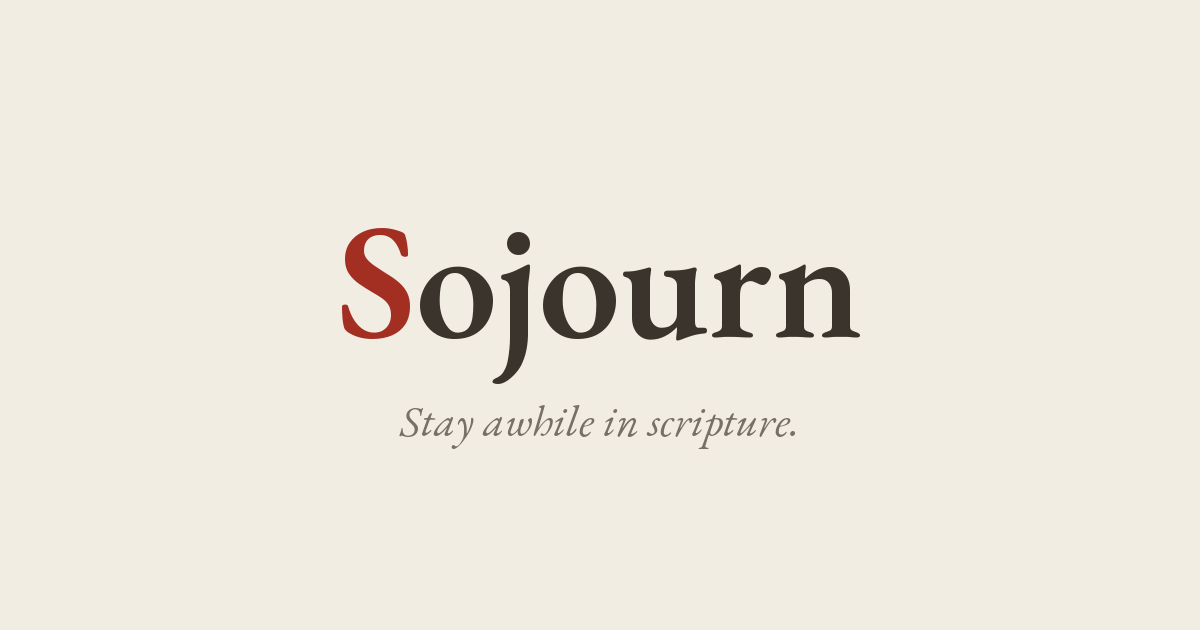
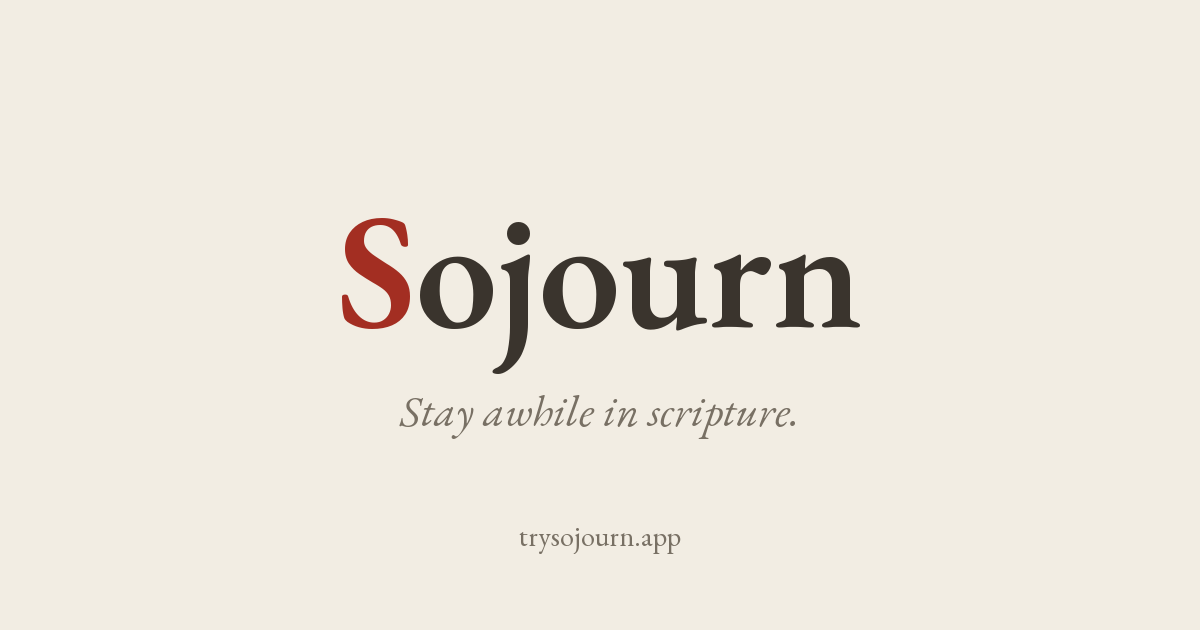
Tighten meta descriptions and fill the gaps on /privacy/
An SEO audit flagged the home description as over-long. Checking every
page turned up two more gaps.

- Home description 161 -> 153 chars, in both the meta tag and JSON-LD.
- The Wikipedia post 158 -> 141 chars, replaced in all four places it
  appeared. The new copy drops the opener that restated the post's own
  title, which also clears the redundancy on its share card.
- /privacy/ had only a <title>: no description and no canonical, the
  only page on the site missing either. Both added.
- The home card carries trysojourn.app where other cards carry the
  wordmark footer, as a plain line of text rather than a badge.

llms.txt and sitemap.xml regenerated. All 17 pages now carry a
description within length, a canonical, and valid JSON-LD. Topic cards
verified byte-identical.

Claude-Session: https://claude.ai/code/session_01XpPifASp2CocFrR25Q77Mw

diff --git a/writings/explore-the-bible-like-wikipedia/index.html b/writings/explore-the-bible-like-wikipedia/index.html
@@ -14,13 +14,13 @@
 <meta name="format-detection" content="telephone=no, date=no, address=no, email=no">
 <meta name="theme-color" content="#A32E22">
 <title>Sojourn &middot; Explore the Bible like Wikipedia</title>
-<meta name="description" content="Why Sojourn lets you explore the Bible like Wikipedia: every verse is a door into the chapter around it, so you can follow a thread without losing your place.">
+<meta name="description" content="Scripture is full of cross references. Sojourn lets you follow them like Wikipedia links, with every verse a door into the chapter around it.">
 <link rel="canonical" href="https://trysojourn.app/writings/explore-the-bible-like-wikipedia/">
 <meta name="author" content="Jaisen Mathai">
 <meta property="og:site_name" content="Sojourn">
 <meta property="og:type" content="article">
 <meta property="og:title" content="Explore the Bible like Wikipedia">
-<meta property="og:description" content="Why Sojourn lets you explore the Bible like Wikipedia: every verse is a door into the chapter around it, so you can follow a thread without losing your place.">
+<meta property="og:description" content="Scripture is full of cross references. Sojourn lets you follow them like Wikipedia links, with every verse a door into the chapter around it.">
 <meta property="og:url" content="https://trysojourn.app/writings/explore-the-bible-like-wikipedia/">
 <meta property="og:image" content="https://trysojourn.app/writings/explore-the-bible-like-wikipedia/og.png">
 <meta property="og:image:width" content="1200">
@@ -31,14 +31,14 @@
 <meta property="article:author" content="Jaisen Mathai">
 <meta name="twitter:card" content="summary_large_image">
 <meta name="twitter:title" content="Explore the Bible like Wikipedia">
-<meta name="twitter:description" content="Why Sojourn lets you explore the Bible like Wikipedia: every verse is a door into the chapter around it, so you can follow a thread without losing your place.">
+<meta name="twitter:description" content="Scripture is full of cross references. Sojourn lets you follow them like Wikipedia links, with every verse a door into the chapter around it.">
 <meta name="twitter:image" content="https://trysojourn.app/writings/explore-the-bible-like-wikipedia/og.png">
 <script type="application/ld+json">
 {
   "@context": "https://schema.org",
   "@type": "BlogPosting",
   "headline": "Explore the Bible like Wikipedia",
-  "description": "Why Sojourn lets you explore the Bible like Wikipedia: every verse is a door into the chapter around it, so you can follow a thread without losing your place.",
+  "description": "Scripture is full of cross references. Sojourn lets you follow them like Wikipedia links, with every verse a door into the chapter around it.",
   "url": "https://trysojourn.app/writings/explore-the-bible-like-wikipedia/",
   "mainEntityOfPage": "https://trysojourn.app/writings/explore-the-bible-like-wikipedia/",
   "datePublished": "2026-08-04",

diff --git a/index.html b/index.html
@@ -6,7 +6,7 @@
 <meta name="format-detection" content="telephone=no, date=no, address=no, email=no">
 <meta name="theme-color" content="#A32E22">
 <title>Sojourn &middot; Stay awhile in scripture</title>
-<meta name="description" content="A quiet place to read and reflect on scripture. See what the Bible says about anxiety, grief, fear, and more, with every verse a door into the chapter around it.">
+<meta name="description" content="A quiet place to read and reflect on scripture. See what the Bible says about anxiety, grief, and fear. Every verse is a door into the chapter around it.">
 <link rel="canonical" href="https://trysojourn.app/">
 <meta property="og:site_name" content="Sojourn">
 <meta property="og:title" content="Sojourn · Stay awhile in scripture">
@@ -38,7 +38,7 @@
       "name": "Sojourn",
       "url": "https://trysojourn.app/",
       "publisher": { "@id": "https://trysojourn.app/#org" },
-      "description": "A quiet place to read and reflect on scripture. See what the Bible says about anxiety, grief, fear, and more, with every verse a door into the chapter around it."
+      "description": "A quiet place to read and reflect on scripture. See what the Bible says about anxiety, grief, and fear. Every verse is a door into the chapter around it."
     },
     {
       "@type": "MobileApplication",

diff --git a/privacy/index.html b/privacy/index.html
@@ -6,6 +6,8 @@
 <meta name="format-detection" content="telephone=no, date=no, address=no, email=no">
 <meta name="theme-color" content="#A32E22">
 <title>Sojourn &middot; Privacy &middot; Your reading is yours alone</title>
+<meta name="description" content="Sojourn is built to be a quiet, private place. No account, no tracking, and nothing you read or ask ever leaves your device.">
+<link rel="canonical" href="https://trysojourn.app/privacy/">
 <link rel="icon" type="image/png" sizes="32x32" href="/assets/favicon-32.png">
 <link rel="icon" type="image/png" sizes="16x16" href="/assets/favicon-16.png">
 <link rel="icon" type="image/png" sizes="192x192" href="/assets/favicon-192.png">

diff --git a/.claude/skills/topics/generate_og.py b/.claude/skills/topics/generate_og.py
@@ -137,7 +137,7 @@ LAYOUT = {
     "topic":    dict(title_cy=236, max_lines=3, max_bottom=None, footer=True),
     "writing":  dict(title_cy=214, max_lines=3, max_bottom=452,  footer=True),
     "writings": dict(title_cy=214, max_lines=3, max_bottom=452,  footer=True),
-    "home":     dict(title_cy=278, max_lines=2, max_bottom=None, footer=False),
+    "home":     dict(title_cy=268, max_lines=2, max_bottom=None, footer=False),
 }
 
 SURFACES = {
@@ -175,6 +175,10 @@ def generate(kind="topic", slug=None):
         mark = font(46, "SemiBold")
         draw_runs(d, [("S", RED), ("ojourn", INK)], mark, 512)
         draw_centered(d, "Stay awhile in scripture.", font(27, "Regular"), 560, MUTED)
+    else:
+        # The home card carries the address instead of the wordmark footer: it says
+        # where to go without turning a quiet card into an ad.
+        draw_centered(d, "trysojourn.app", font(28, "Regular"), 536, MUTED)
 
     out = os.path.join(REPO, *out_parts)
     img.save(out, "PNG")

diff --git a/.claude/skills/topics/SKILL.md b/.claude/skills/topics/SKILL.md
@@ -109,8 +109,9 @@ whenever a post is added or its title or summary changes, and point the post's
 longer than a topic subhead, the subhead shrinks to stay clear of the wordmark footer.
 
 **The home card** is the exception: its copy is fixed in the generator ("Sojourn" over
-"Stay awhile in scripture.") rather than scraped, and it drops the wordmark footer,
-because on that card the title already is the wordmark.
+"Stay awhile in scripture.") rather than scraped, and in place of the wordmark footer it
+carries `trysojourn.app`, because on that card the title already is the wordmark. The
+address is the card's only call to action, and it stays a plain line of text on purpose.
 
 Topic cards are unaffected by any of this. The generator is deterministic, so
 regenerating all 11 existing topic cards reproduces them byte for byte.
